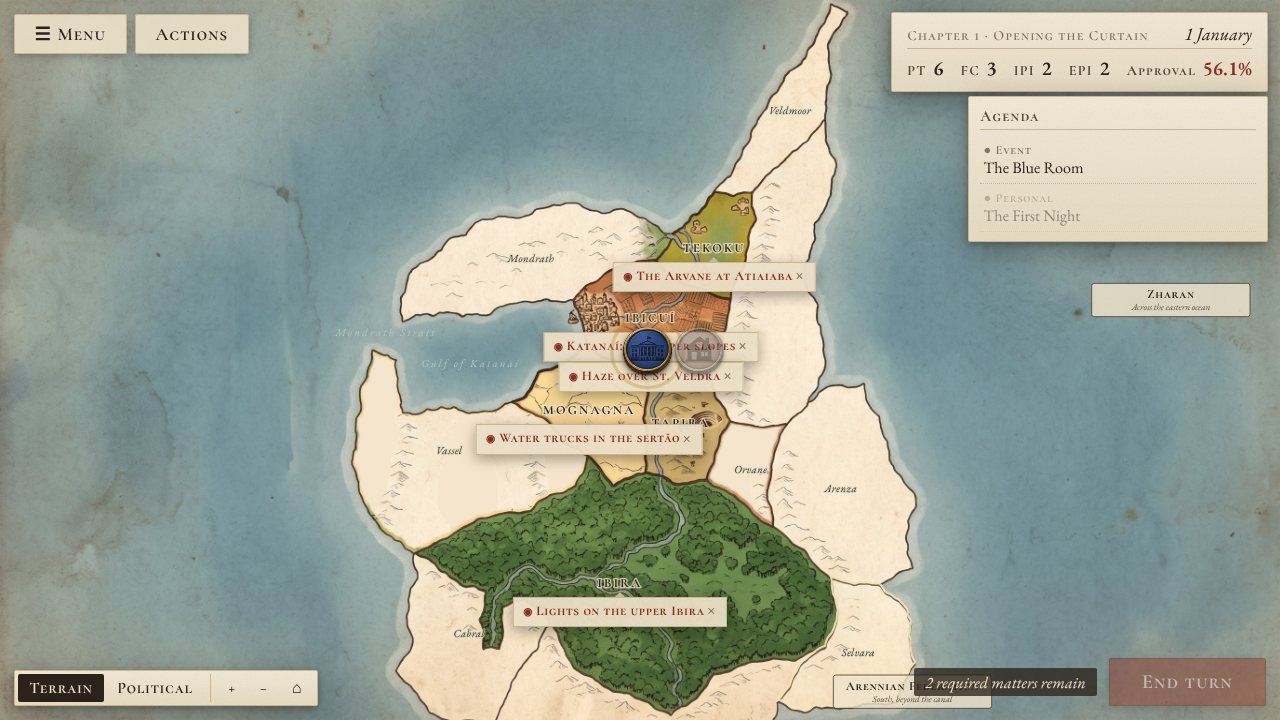
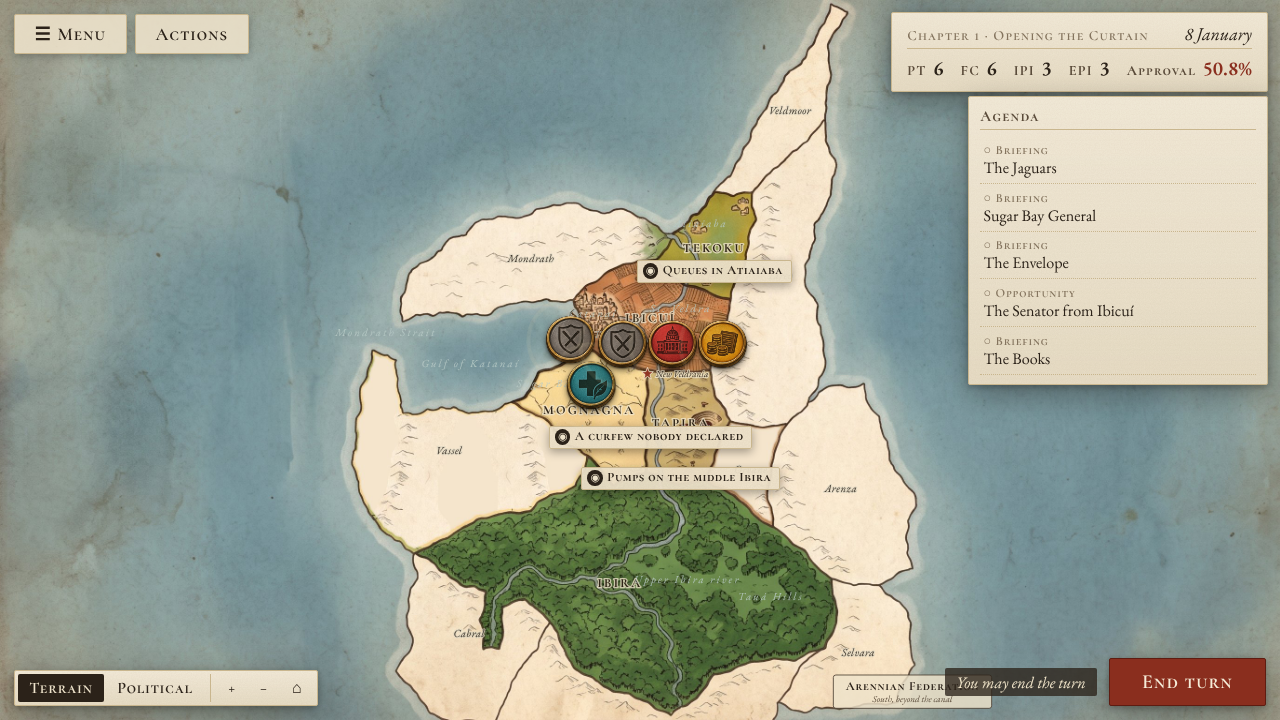
Round 2 screenshots and README
Claude-Session: https://claude.ai/code/session_0164VV17xiToM1tq9PRGtkDc

diff --git a/README.md b/README.md
@@ -15,7 +15,10 @@ npm run build      # tsc --noEmit && vite build -> dist/
 npm run preview    # serve dist/
 ```
 
-Dev only: `http://localhost:5173/?corpus=ch1` plays the chapter-1 test corpus in `tests/fixtures/ch1` instead of `content/`.
+Dev-only URL switches (stripped from production builds):
+- `?corpus=ch1` plays the chapter-1 test corpus in `tests/fixtures/ch1` instead of `content/`;
+- `?corpus=demo` plays only `content/_demo` (exercises budget, vote, readables and tutorial highlights);
+- `?showLocked` (or localStorage `magnanimous.dev.showLocked = 1`) shows `[lock if]` options greyed instead of hiding them.
 
 ## Structure
 
@@ -54,6 +57,17 @@ In dev builds the console lists parse warnings and unresolved references (unknow
 - **Crises**: `content/crises.json` (or `world.json → crises`):
   `{ id, scene, threshold, when, terms: [{expr, weight}], accumulate?, decay?, signalAt?, signals: {popups, news} }`.
   The hidden meter is Σ weight·expr each turn; at the threshold flag `crisis_<id>` is set and the scene becomes available.
+- **Readables**: `content/readables.json` (and `content/popups.json`, same shape): pins on the map for their chapter/turn,
+  click → paper card; optional `flags` set when read. Kinds `reaction | note | report | incident` get distinct icons.
+- **Budget**: `content/ministries.json`; a scene token `[open: budget]` opens the screen. Flags `budget.<ministry>`,
+  `initiative.<id>`; FC per turn and recurring effects apply at each turn update, `once` tokens when first funded.
+- **Votes**: `content/bills.json`; `[vote: <bill-id>]` opens the vote screen (stances in words, whip deals; OPP small /
+  medium / high prices, corrupt deals increment `corruption`, `voice`, `path_corrupt`). Flags `vote.<id>` and
+  `vote.<id>.margin`. Yes = for + leaning + half of undecided; ≥ 51 passes, ≥ 44 passes watered down.
+- **Tutorial**: `[highlight: hud-pt]` (inline or on its own line before a block). Choice costs are hidden until
+  `flag.tutorial_done` (only when some scene sets it), then shown as a ◈ with a tooltip.
+- **Scene flow**: every scene returns to the map. `order` only hides other markers until the forced scenes are done;
+  `→ scene:<id>` unlocks that scene as a marker instead of playing it immediately.
 - **Free actions**: `content/free-actions.json`:
   `{ id, label, description, cost: "1 PT", targets: "regions"|"countries"|[ids], effects: ["[approval +3 @ target]"], cooldown, result, scene? }`.
 
